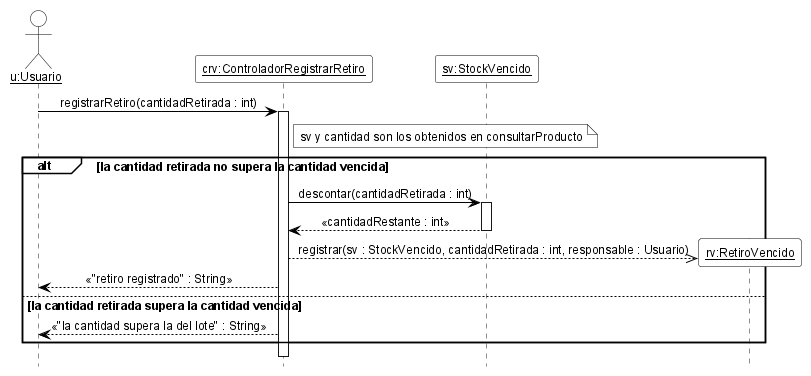
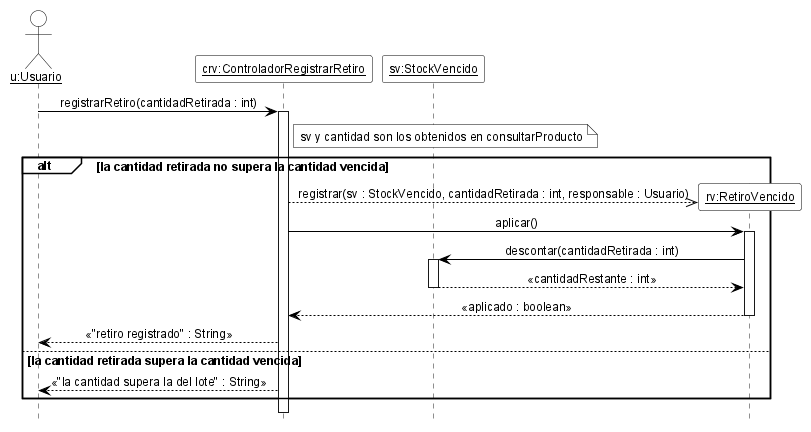
achicamos los dsd

Changed region(s): [[0.0, 0.117, 0.9864, 0.9654], [0.0308, 0.0293, 0.0617, 0.0878], [0.3391, 0.7021, 0.3699, 0.7314]]

diff --git a/08-Diagrama De Secuencia/Diagramas_de_Secuencia.md b/08-Diagrama De Secuencia/Diagramas_de_Secuencia.md
@@ -758,24 +758,38 @@ skinparam NoteBorderColor black
 actor "<u>u:Usuario</u>" as u
 participant "<u>cri:ControladorRegistrarIngreso</u>" as cri
 participant "<u>p:Producto</u>" as p
+participant "<u>lotes[i]:Lote</u>" as li
 participant "<u>lt:Lote</u>" as lt
 collections "<u>lotes:Lote</u>" as ml <<multiobjeto>>
 
 u -> cri ++ : confirmarIngreso()
-note right of cri : p, lt y los datos son los cargados en registrarIngreso
-alt es un lote nuevo
-  create participant "<u>nl:Lote</u>" as nl
-  cri -->> nl : crear(p : Producto, nroLote : String, cantidad : int, fechaVencimiento : Date)
-  cri -> p ++ : agregarLote(nl : Lote)
-  p -> ml ++ : add(nl : Lote)
-  ml --> p --
-  p --> cri --
-else el lote ya existe
-  cri -> lt ++ : aumentarCantidad(cantidad : int)
-  lt --> cri -- : «cantidadLote : int»
-end
+note right of cri : p y los datos son los cargados en registrarIngreso
 create participant "<u>ing:IngresoMercaderia</u>" as ing
 cri -->> ing : registrar(p : Producto, nroLote : String, cantidad : int, fechaVencimiento : Date, responsable : Usuario)
+cri -> ing ++ : aplicar()
+ing -> p ++ : buscarLote(nroLote : String)
+group bucle [para cada lote en lotes]
+  p -> li ++ : getNroLote()
+  li --> p -- : «nro : String»
+end
+note right of p
+  si nro = nroLote
+  lt = lotes[i]
+  cortar iteración
+end note
+p --> ing -- : «lt : Lote»
+alt es un lote nuevo
+  create participant "<u>nl:Lote</u>" as nl
+  ing -->> nl : crear(p : Producto, nroLote : String, cantidad : int, fechaVencimiento : Date)
+  ing -> p ++ : agregarLote(nl : Lote)
+  p -> ml ++ : add(nl : Lote)
+  ml --> p --
+  p --> ing --
+else el lote ya existe
+  ing -> lt ++ : aumentarCantidad(cantidad : int)
+  lt --> ing -- : «cantidadLote : int»
+end
+ing --> cri -- : «aplicado : boolean»
 cri --> u -- : «"ingreso registrado" : String»
 
 @enduml
@@ -881,7 +895,6 @@ skinparam NoteBorderColor black
 
 actor "<u>u:Usuario</u>" as u
 participant "<u>cas:ControladorAjustarStock</u>" as cas
-participant "<u>cat:«Singleton»Catalogo</u>" as cat
 participant "<u>p:Producto</u>" as p
 participant "<u>lotes[i]:Lote</u>" as li
 participant "<u>lt:Lote</u>" as lt
@@ -900,28 +913,13 @@ alt la cantidad real no es negativa y hay motivo
     cortar iteración
   end note
   p --> cas -- : «lt : Lote»
-  cas -> lt ++ : corregirCantidad(cantidadReal : int)
-  lt --> cas -- : «cantidadLote : int»
   create participant "<u>aj:AjusteStock</u>" as aj
   cas -->> aj : registrar(lt : Lote, cantidadReal : int, motivo : String, responsable : Usuario)
-  cas -> cat ++ : calcularStockVigente(p : Producto)
-  cat -> p ++ : getLotes()
-  p --> cat -- : «lotes : Lote[]»
-  group bucle [para cada lote en lotes]
-    cat -> li ++ : estaVencido(fecha : Date)
-    li --> cat -- : «vencido : boolean»
-    cat -> li ++ : getCantidadLote()
-    li --> cat -- : «cantidadLote : int»
-  end
-  note right of cat
-    si vencido = false
-    stockVigente = stockVigente + cantidadLote
-  end note
-  cat --> cas -- : «stockVigente : int»
-  cas -> p ++ : tieneStockBajo()
-  p --> cas -- : «stockBajo : boolean»
-  note right of cas : si stockBajo = true, el producto aparece\nen el listado de stock bajo (RN-16)
-  cas --> u : «"ajuste registrado, stock vigente: " + stockVigente : String»
+  cas -> aj ++ : aplicar()
+  aj -> lt ++ : corregirCantidad(cantidadReal : int)
+  lt --> aj -- : «cantidadLote : int»
+  aj --> cas -- : «aplicado : boolean»
+  cas --> u : «"ajuste registrado" : String»
 else la cantidad real es negativa o falta el motivo
   cas --> u : «"dato inválido o incompleto" : String»
 end
@@ -1048,10 +1046,12 @@ participant "<u>sv:StockVencido</u>" as sv
 u -> crv ++ : registrarRetiro(cantidadRetirada : int)
 note right of crv : sv y cantidad son los obtenidos en consultarProducto
 alt la cantidad retirada no supera la cantidad vencida
-  crv -> sv ++ : descontar(cantidadRetirada : int)
-  sv --> crv -- : «cantidadRestante : int»
   create participant "<u>rv:RetiroVencido</u>" as rv
   crv -->> rv : registrar(sv : StockVencido, cantidadRetirada : int, responsable : Usuario)
+  crv -> rv ++ : aplicar()
+  rv -> sv ++ : descontar(cantidadRetirada : int)
+  sv --> rv -- : «cantidadRestante : int»
+  rv --> crv -- : «aplicado : boolean»
   crv --> u : «"retiro registrado" : String»
 else la cantidad retirada supera la cantidad vencida
   crv --> u : «"la cantidad supera la del lote" : String»
